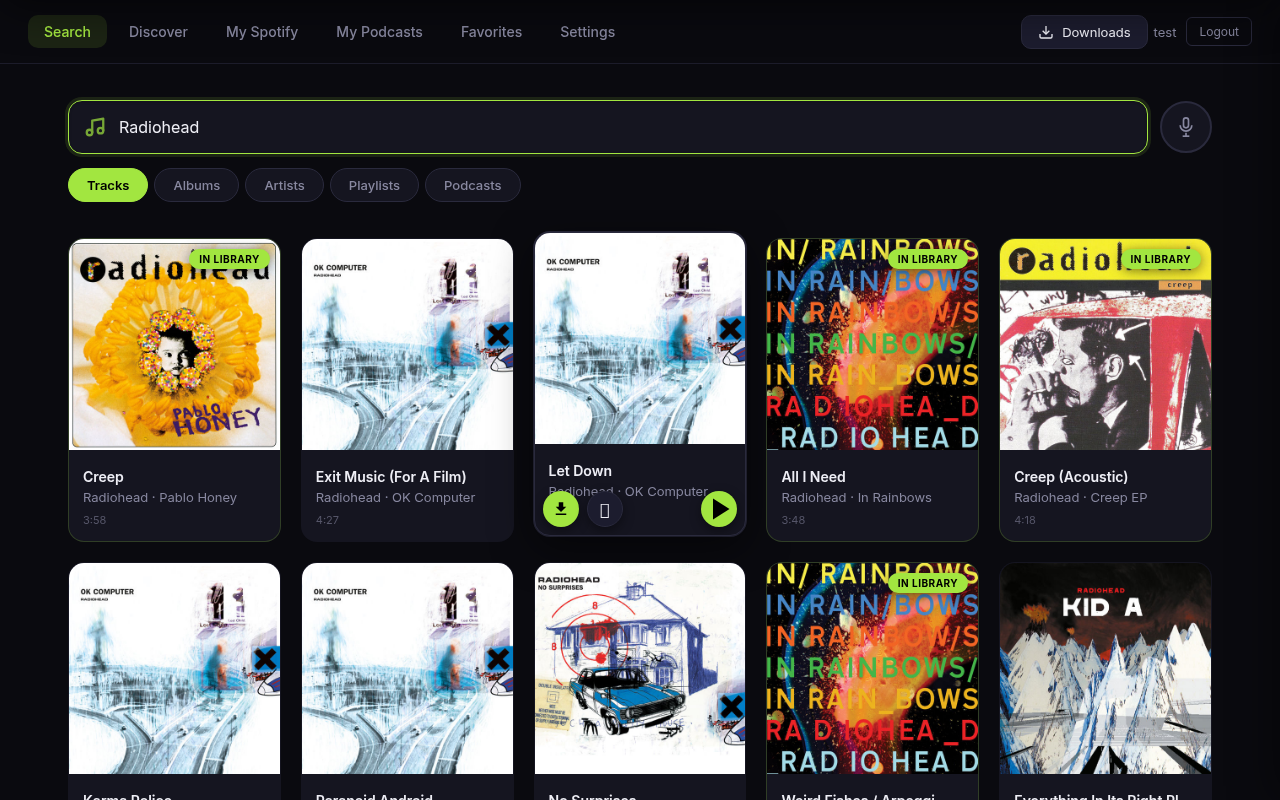
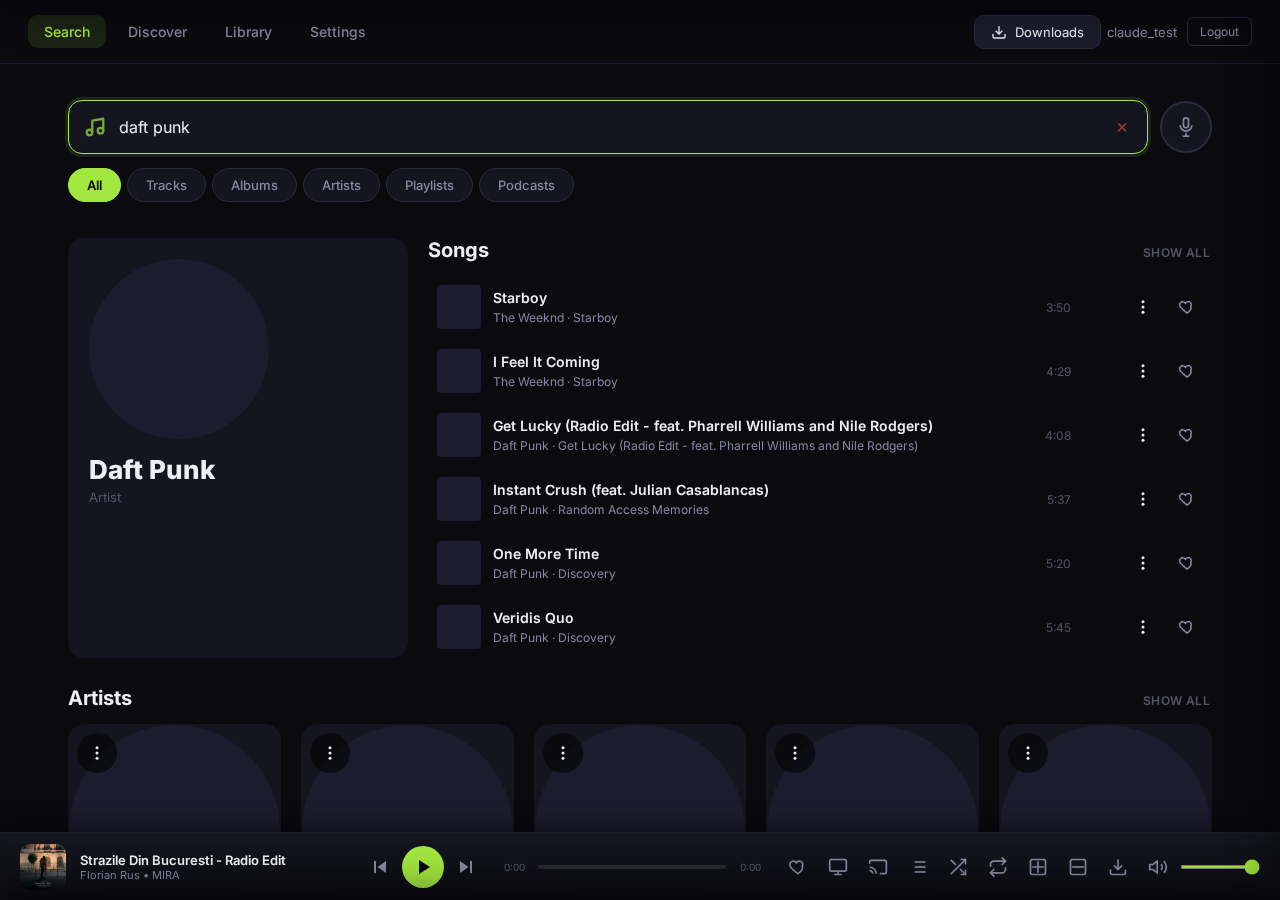
docs: refresh for v1.15.0 UX overhaul + new screenshots
- README: 4-item nav, aggregated "All" search, Library tabs, playlist
  management, redesigned download modal, grouped Settings; new Library shot
- docs: architecture (4 pages + Library tabs), api-reference (/api/search/all,
  playlist details/cover/reorder), configuration + setup-guides settings paths
- screenshots: refreshed download-modal, search, my-spotify, settings, mobile;
  added library.png (captured via Playwright against prod v1.15.0)

diff --git a/README.md b/README.md
@@ -4,31 +4,37 @@ A self-hosted web app for searching, downloading, and playing music. Think Jelly
 
 Built with FastAPI + vanilla JS. Runs as a single Docker container. Native apps for macOS and Android.
 
-![Search results](screenshots/search-tracks.png)
+![Search results](screenshots/search-results.png)
 
 ## Features
 
 ### Search & Discovery
-- **Multi-provider search** — Deezer (default, no API key), YouTube Music, or Spotify with automatic fallback
-- **Search types** — tracks, albums, artists, playlists, podcasts
+- **Aggregated search** — unified "All" tab with top result + songs, artists, albums, playlists in one query (Spotify-style)
+- **Per-type search** — dedicated tabs for tracks, albums, artists, playlists, podcasts
+- **Multi-provider** — Deezer (default, no API key), YouTube Music, or Spotify with automatic fallback
+- **Case-insensitive, diacritics-aware** — search "beyonce" to find "Beyoncé"
 - **Discover** — genre-based browsing via Last.fm tags with infinite scroll
 - **Artist detail** — discography, radio, follow, bulk download
 
-### Downloads
-- **yt-dlp** — YouTube audio in FLAC/MP3 with embedded metadata and album art
-- **Soulseek (slskd)** — P2P downloads, auto-selects best quality
-- **Lidarr** — torrent-based with artist monitoring
+### Downloads & Playback
+- **Smart playback** — Play Now, Add to Queue, or Radio from any track
+- **Download modal redesign** — clear separation of playback (Play Now / Add to Queue / Radio) vs. library download (Method + Format)
+- **Download methods**:
+  - **yt-dlp** (Fastest) — YouTube audio in FLAC/MP3 with embedded metadata and album art
+  - **Soulseek (slskd)** (Best quality) — P2P downloads, auto-selects best quality
+  - **Lidarr** (Runs in background) — torrent-based with artist monitoring
 - **Smart downloads** — skips tracks already in your Navidrome library
 - **Job management** — real-time progress, retry, cancel, history
 
-### Player
+### Player & Mobile
 - **Multi-source streaming** — local file > Navidrome > YouTube proxy (4h URL cache)
-- **Full-screen player** — album art, seek bar, shuffle, repeat (off/all/one)
-- **Queue** — drag & drop reorder, per-user persistent, save as Navidrome playlist
+- **Full-screen player** — album art, seek bar, shuffle, repeat (off/all/one), grouped action row (DJ / track / output)
+- **Queue management** — drag & drop reorder, per-user persistent, save as Navidrome playlist, always visible on touch
 - **Playlist Mode** — queue linked to Navidrome playlist with auto-sync
 - **Multi-device** — separate queue and play progress per device, with device naming
 - **Output modes** — Default (local + cast), Local Only, DLNA Only (auto-connects on play)
 - **Source badge** — shows LOCAL / FLAC / YT on mini and full player
+- **Mobile optimizations** — mini-player shows essentials only (play/pause, like, queue), full player has all controls
 - **Swipe gestures** — expand player, next/prev track, tap to play/pause
 - **Keyboard shortcuts** — Space (play/pause), arrows (skip, volume)
 
@@ -42,10 +48,20 @@ Built with FastAPI + vanilla JS. Runs as a single Docker container. Native apps 
 - **Browse** — playlists, Liked Songs, saved albums, followed artists, podcasts
 - **Download & sync** — download Spotify playlists to Navidrome
 
-### Library & Navidrome
-- **Playlist management** — create, rename, duplicate, merge, delete, reorder
-- **Library detection** — "In Library" badge with fuzzy matching
+### Library
+- **Organized tabs** — Downloaded (your Navidrome playlists + Liked Songs), Spotify (read-only mirror), Podcasts, Favorites
+- **Spotify tab** — Playlists, Albums, Artists, Shows segmented control for easy browsing
+- **Quick search** — "In Library" badge with fuzzy matching on all search results
+
+### Playlist Management (Spotify-style)
+- **Inline creation** — create playlists from "Add to playlist" with name + description
+- **Cover images** — set playlist cover from URL
+- **Drag-to-reorder** — reorder tracks within playlists
+- **Undo on delete** — 5-second toast to recover deleted playlists
+- **Themed modals** — no browser prompts for better UX
 - **Track/album deletion** — with confirmation showing affected playlists
+
+### Library & Recognition
 - **Song recognition** — Shazam + AcoustID fingerprinting via microphone
 
 ### Favorites & New Releases
@@ -69,30 +85,33 @@ Built with FastAPI + vanilla JS. Runs as a single Docker container. Native apps 
 - **Auto-update** — checks for new versions, shows update banner in Settings
 - [Full native apps documentation](docs/native-apps.md)
 
-### User Management
-- **JWT auth** — admin and user roles
+### Settings
+- **Organized groups** — "Playback & Sound", "Library & Downloads", "Account & App", "Admin" (admin-only)
+- **User management** — JWT auth with admin and user roles
 - **Per-user permissions** — restrict formats (MP3/FLAC), methods (yt-dlp/slskd/Lidarr), storage quotas
-- **Per-user folders** — downloads go to `/music/{username}/` with disk usage tracking
 - **Device management** — register, name, and configure devices per user
+- **Per-user folders** — downloads go to `/music/{username}/` with disk usage tracking
 
-### UI
+### Navigation & UI
+- **Consolidated nav** — 4 top-level items (Search / Discover / Library / Settings) + Downloads button + user/logout
+- **Mobile nav** — bottom tab bar with Search / Discover / Library / Downloads / Settings, plus "Playing" pill
 - **Dark theme** — Spotify-inspired with lime green accent
-- **Responsive** — desktop top nav, mobile bottom tab bar
+- **Responsive** — desktop top nav, mobile bottom tab bar with safe-area insets
 - **No build step** — single HTML file, vanilla JS modules
 
 ## Screenshots
 
 | Search Results | Download Modal | Discover |
 |----------------|----------------|----------|
-| ![Search](screenshots/search-tracks.png) | ![Modal](screenshots/download-modal.png) | ![Discover](screenshots/discover.png) |
+| ![Search](screenshots/search-results.png) | ![Modal](screenshots/download-modal.png) | ![Discover](screenshots/discover.png) |
 
-| Full Player (Desktop) | My Spotify Library | Mobile |
-|-----------------------|-------------------|--------|
-| ![Player](screenshots/full-player.png) | ![Spotify](screenshots/my-spotify.png) | ![Mobile](screenshots/mobile.png) |
+| Library | Full Player (Desktop) | Mobile |
+|---------|----------------------|--------|
+| ![Library](screenshots/library.png) | ![Player](screenshots/full-player.png) | ![Mobile](screenshots/mobile.png) |
 
-| Login | Podcasts | Settings |
-|-------|----------|----------|
-| ![Login](screenshots/login.png) | ![Podcasts](screenshots/podcasts.png) | ![Settings](screenshots/settings.png) |
+| My Spotify | Login | Podcasts | Settings |
+|-----------|-------|----------|----------|
+| ![Spotify](screenshots/my-spotify.png) | ![Login](screenshots/login.png) | ![Podcasts](screenshots/podcasts.png) | ![Settings](screenshots/settings.png) |
 
 ## Quick Start
 

diff --git a/docs/api-reference.md b/docs/api-reference.md
@@ -18,7 +18,8 @@ All endpoints (except login and version) require `Authorization: Bearer <token>`
 
 | Method | Endpoint | Description |
 |--------|----------|-------------|
-| `GET` | `/api/search?q=...&type=track&offset=0` | Search music (via configured provider) |
+| `GET` | `/api/search/all?q=...&limit_per_type=8` | Aggregated search — returns top result + songs, artists, albums, playlists (Spotify-style) |
+| `GET` | `/api/search?q=...&type=track&offset=0` | Type-specific search (track/album/artist/playlist/show/episode) |
 | `GET` | `/api/artist/:id/albums` | Get artist albums |
 | `GET` | `/api/album/:id/tracks` | Get album tracks |
 
@@ -71,15 +72,18 @@ Queue endpoints use `X-Device-ID` header for per-device isolation. Missing heade
 | `POST` | `/api/library/check` | Check if items exist in Navidrome |
 | `GET` | `/api/library/playlists` | List Navidrome playlists |
 | `GET` | `/api/library/playlist/:id` | Get playlist with tracks |
-| `POST` | `/api/library/playlist` | Create new playlist |
+| `POST` | `/api/library/playlist` | Create new playlist (with optional name and description) |
+| `PUT` | `/api/library/playlist/:id/details` | Update playlist name, description, and metadata |
 | `PUT` | `/api/library/playlist/:id/rename` | Rename playlist |
 | `PUT` | `/api/library/playlist/:id/tracks` | Add tracks by song IDs |
-| `PUT` | `/api/library/playlist/:id/reorder` | Reorder playlist tracks |
+| `PUT` | `/api/library/playlist/:id/reorder` | Reorder playlist tracks by drag-and-drop |
+| `POST` | `/api/library/playlist/:id/cover` | Set playlist cover image from URL |
+| `DELETE` | `/api/library/playlist/:id/cover` | Remove playlist cover image |
 | `POST` | `/api/library/playlist/:id/add-by-name` | Add track by name/artist |
 | `POST` | `/api/library/playlist/:id/add-and-download` | Add track (download if needed) |
 | `POST` | `/api/library/playlist/:id/remove-by-name` | Remove track by name |
 | `DELETE` | `/api/library/playlist/:id/tracks` | Remove tracks by indices |
-| `DELETE` | `/api/library/playlist/:id` | Delete playlist |
+| `DELETE` | `/api/library/playlist/:id` | Delete playlist (5-second undo window) |
 | `POST` | `/api/library/track/delete` | Delete track file from disk |
 | `POST` | `/api/library/track/check-playlists` | Check which playlists contain track |
 | `POST` | `/api/library/album/delete` | Delete album files from disk |

diff --git a/docs/architecture.md b/docs/architecture.md
@@ -84,21 +84,19 @@
 
 | Page | Module | Description |
 |------|--------|-------------|
-| Search | `search.js` | Multi-provider search with type tabs and infinite scroll |
+| Search | `search.js` | Multi-provider search with aggregated "All" tab and per-type tabs (tracks/albums/artists/playlists/podcasts) |
 | Discover | `discover.js` | Last.fm genre tags with content filtering |
-| Library | `library.js` | Navidrome playlists with detail modal |
-| My Spotify | `spotify.js` | Playlists, Liked Songs, Albums, Artists, Podcasts |
-| My Podcasts | `podcasts.js` | Downloaded shows with episode management |
-| Favorites | `favorites.js` | Followed artists with new release badges |
-| Settings | `settings.js` | App config, user management, native app downloads |
+| Library | `library.js` | Tabbed interface: Downloaded (Navidrome playlists + Liked Songs), Spotify (read-only mirror with Playlists/Albums/Artists/Shows segmented control), Podcasts, Favorites |
+| Settings | `settings.js` | App config grouped into "Playback & Sound", "Library & Downloads", "Account & App", "Admin", user management, native app downloads |
 
 ### Shared components
 
-- **Player** (`player.js`, `fullplayer.js`, `queue.js`) — mini bar, full player, queue sidebar
-- **Download modal** (`downloads.js`) — method/format selection, downloads panel
+- **Player** (`player.js`, `fullplayer.js`, `queue.js`) — mini bar with essentials (play/pause, like, queue), full player with grouped action row (DJ / track / output), queue sidebar with drag-to-reorder
+- **Download modal** (`downloads.js`) — primary actions (Play Now, Add to Queue, Radio) separated from library download (Method + Format picker)
+- **Playlist modals** (`playlists.js`) — inline playlist creation with name/description, cover image URL, and undo on delete
 - **Recommendations** (`recommendations.js`) — queue sidebar panel
-- **Gestures** (`gestures.js`) — swipe handling for player, queue panels
-- **Router** (`router.js`) — SPA navigation with history API
+- **Gestures** (`gestures.js`) — swipe handling for player, queue panels, touch-optimized queue reorder
+- **Router** (`router.js`) — SPA navigation with history API, support for Library tabs (Downloaded / Spotify / Podcasts / Favorites)
 
 ## Native Apps (Tauri)
 

diff --git a/docs/setup-guides.md b/docs/setup-guides.md
@@ -12,7 +12,7 @@ Search works without Spotify (Deezer is the default). Spotify credentials are ne
 
 1. Create an app at [Spotify Developer Dashboard](https://developer.spotify.com/dashboard)
 2. Set Redirect URI to `https://your-domain/api/spotify/callback`
-3. In MusicSeeker Settings, enter Client ID and Client Secret
+3. In MusicSeeker Settings → Account & App, enter Client ID and Client Secret
 4. Click "Authorize with Spotify" and follow the OAuth flow
 5. Per-user tokens are stored automatically
 
@@ -69,7 +69,7 @@ docker compose up -d slskd
 
 ### 4. Configure in MusicSeeker
 
-Go to Settings and paste your slskd API key.
+Go to Settings → Library & Downloads and paste your slskd API key.
 
 ## Navidrome
 
@@ -87,7 +87,7 @@ Open `http://localhost:4533` and create an admin account.
 
 ### 3. Configure in MusicSeeker
 
-In Settings, enter the Navidrome URL, username, and password.
+In Settings → Library & Downloads, enter the Navidrome URL, username, and password.
 
 **Important**: MusicSeeker and Navidrome must share the same music volume. Both containers must mount the same host directory to `/music`.
 
@@ -111,7 +111,7 @@ For torrent-based downloads with artist monitoring.
 MusicSeeker auto-discovers DLNA renderers on your LAN via SSDP.
 
 - Renderers appear in the cast menu in the player bar
-- For renderers that don't respond to SSDP, configure the description URL manually in Settings
+- For renderers that don't respond to SSDP, configure the description URL manually in Settings → Playback & Sound
 - The server URL for stream metadata is auto-detected, or set `DLNA_SERVER_URL` if behind a proxy
 
 ## YAMS Integration

diff --git a/docs/configuration.md b/docs/configuration.md
@@ -87,8 +87,8 @@ Each user can configure:
 
 | Setting | Description |
 |---------|-------------|
-| Spotify OAuth | Per-user Spotify authorization (Settings > Spotify Account) |
-| Hide Spotify | Hide My Spotify tab from navigation |
+| Spotify OAuth | Per-user Spotify authorization (Settings > Account & App) |
+| Hide Spotify | Hide Spotify tab in Library from navigation |
 | Allowed formats | MP3, FLAC (admin-configurable per user) |
 | Allowed methods | yt-dlp, slskd, Lidarr (admin-configurable per user) |
 | Storage quota | Max disk usage in GB, 0 = unlimited (admin-configurable) |
